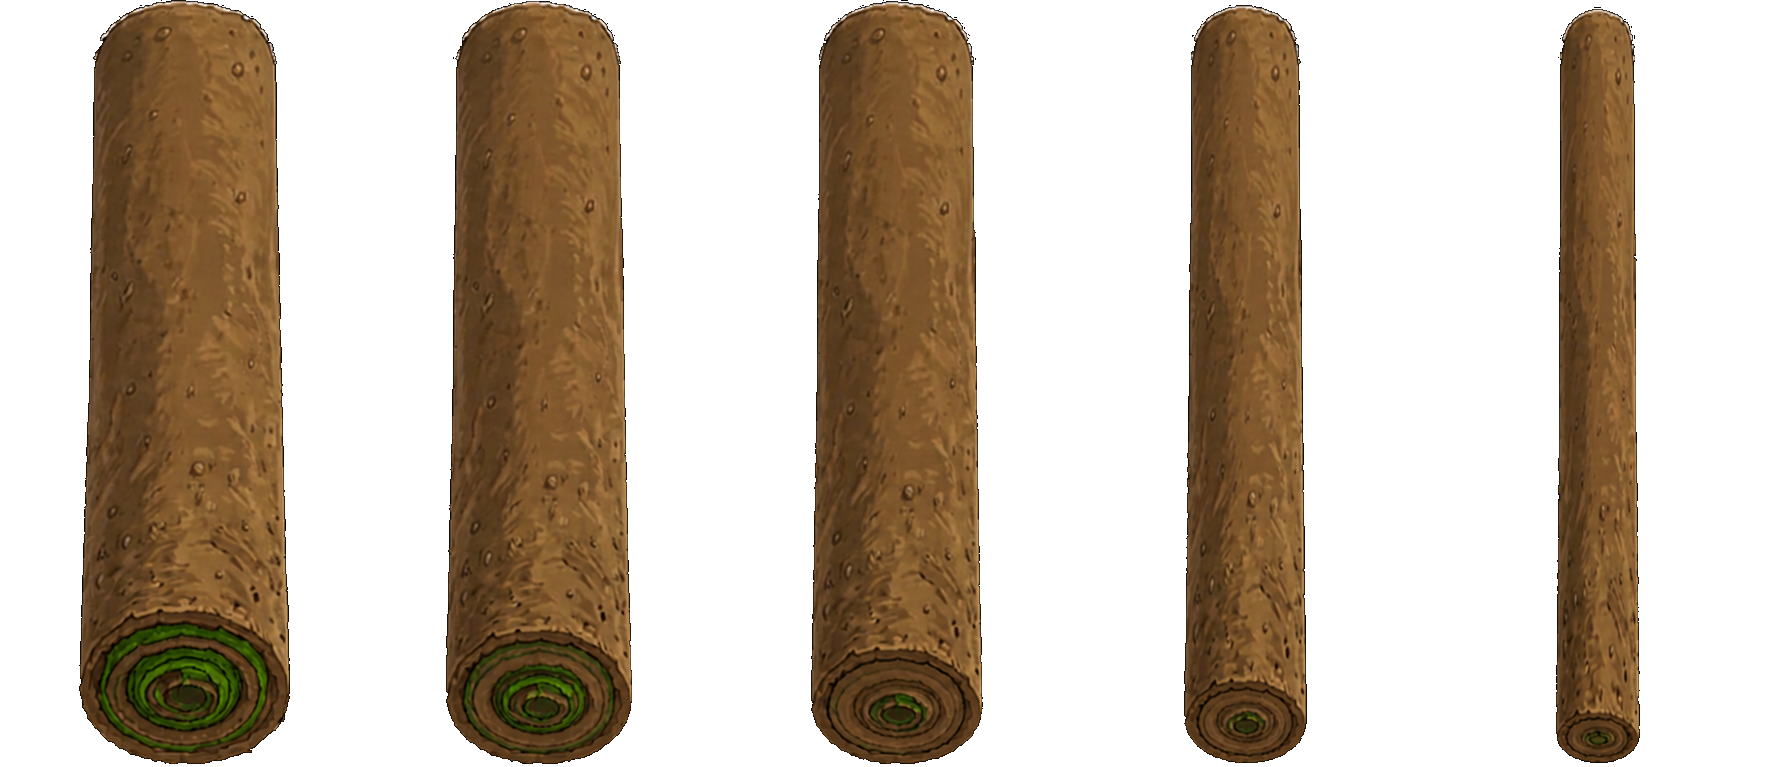
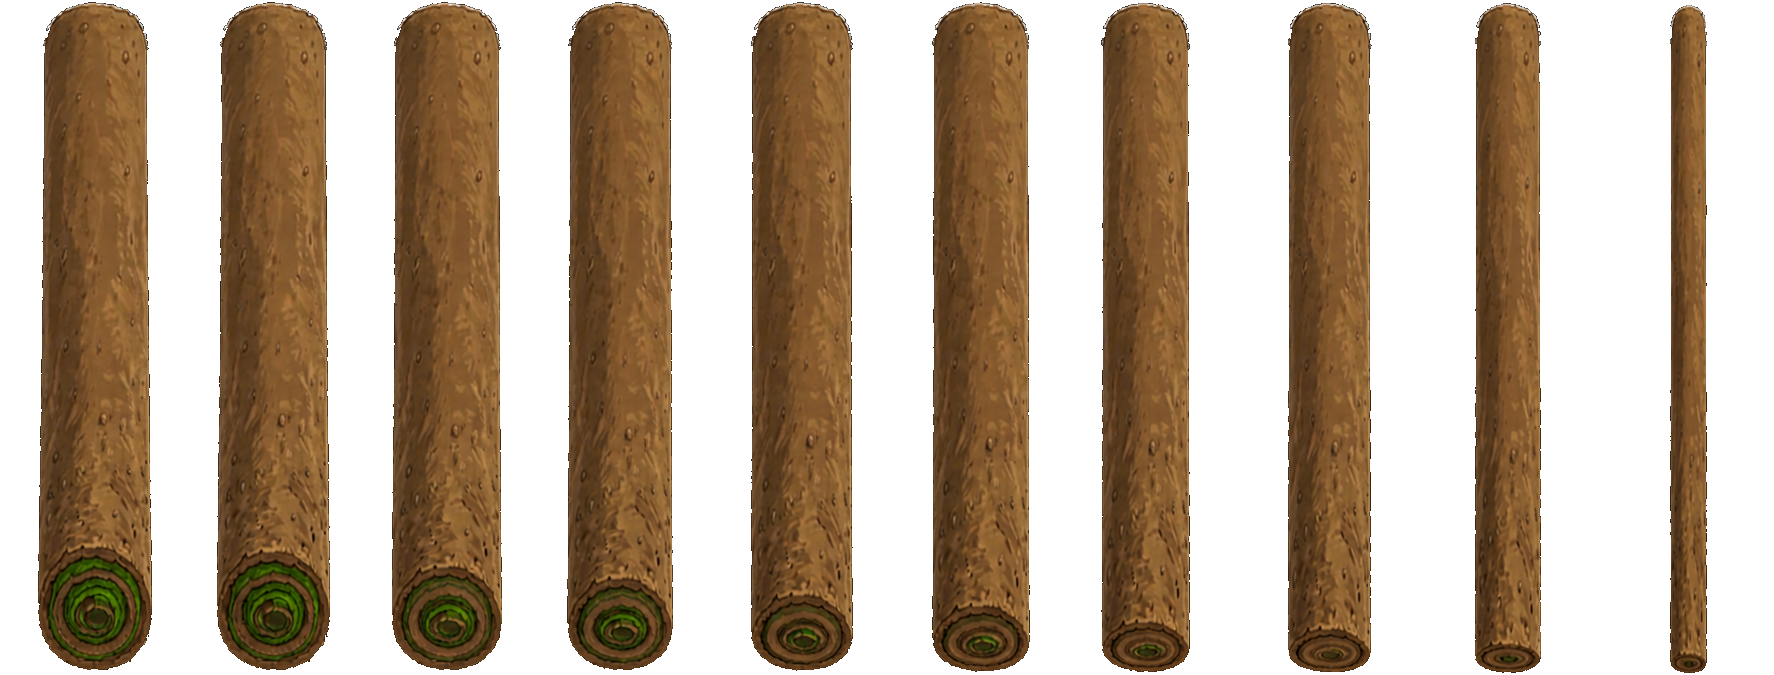
add more gridroll frames

diff --git a/src/main.cpp b/src/main.cpp
@@ -561,6 +561,8 @@ TEXTURE_TYPE getTextureType(ENTITY_TYPE type) {
 		break;
 	case ENTITY_TYPE::ZombotDragonBullet:
 		textureType = TEXTURE_TYPE::ZombotDragonBullet;
+		break;
+
 	case ENTITY_TYPE::RedBullet:
 		textureType = TEXTURE_TYPE::RedBullet;
 		break;
@@ -5913,8 +5915,10 @@ void UpdateLevel(RenderWindow& window) {
 				Texture& rollTex = textures[TEXTURE_TYPE::GRID_ROLL][0];
 				roll.setTexture(rollTex);
 
-				int frameLength = rollTex.getSize().x / 5;
-				roll.setTextureRect(IntRect(int(realProgress * 5) * frameLength, 0, frameLength, rollTex.getSize().y));
+				int frameCount = 10;
+
+				int frameLength = rollTex.getSize().x / frameCount;
+				roll.setTextureRect(IntRect(int(realProgress * frameCount) * frameLength, 0, frameLength, rollTex.getSize().y));
 
 				roll.setOrigin(frameLength / 2, 0);
 				roll.setPosition(Vector2f(dirtLeft, currentLevel->offsetY - 75));
